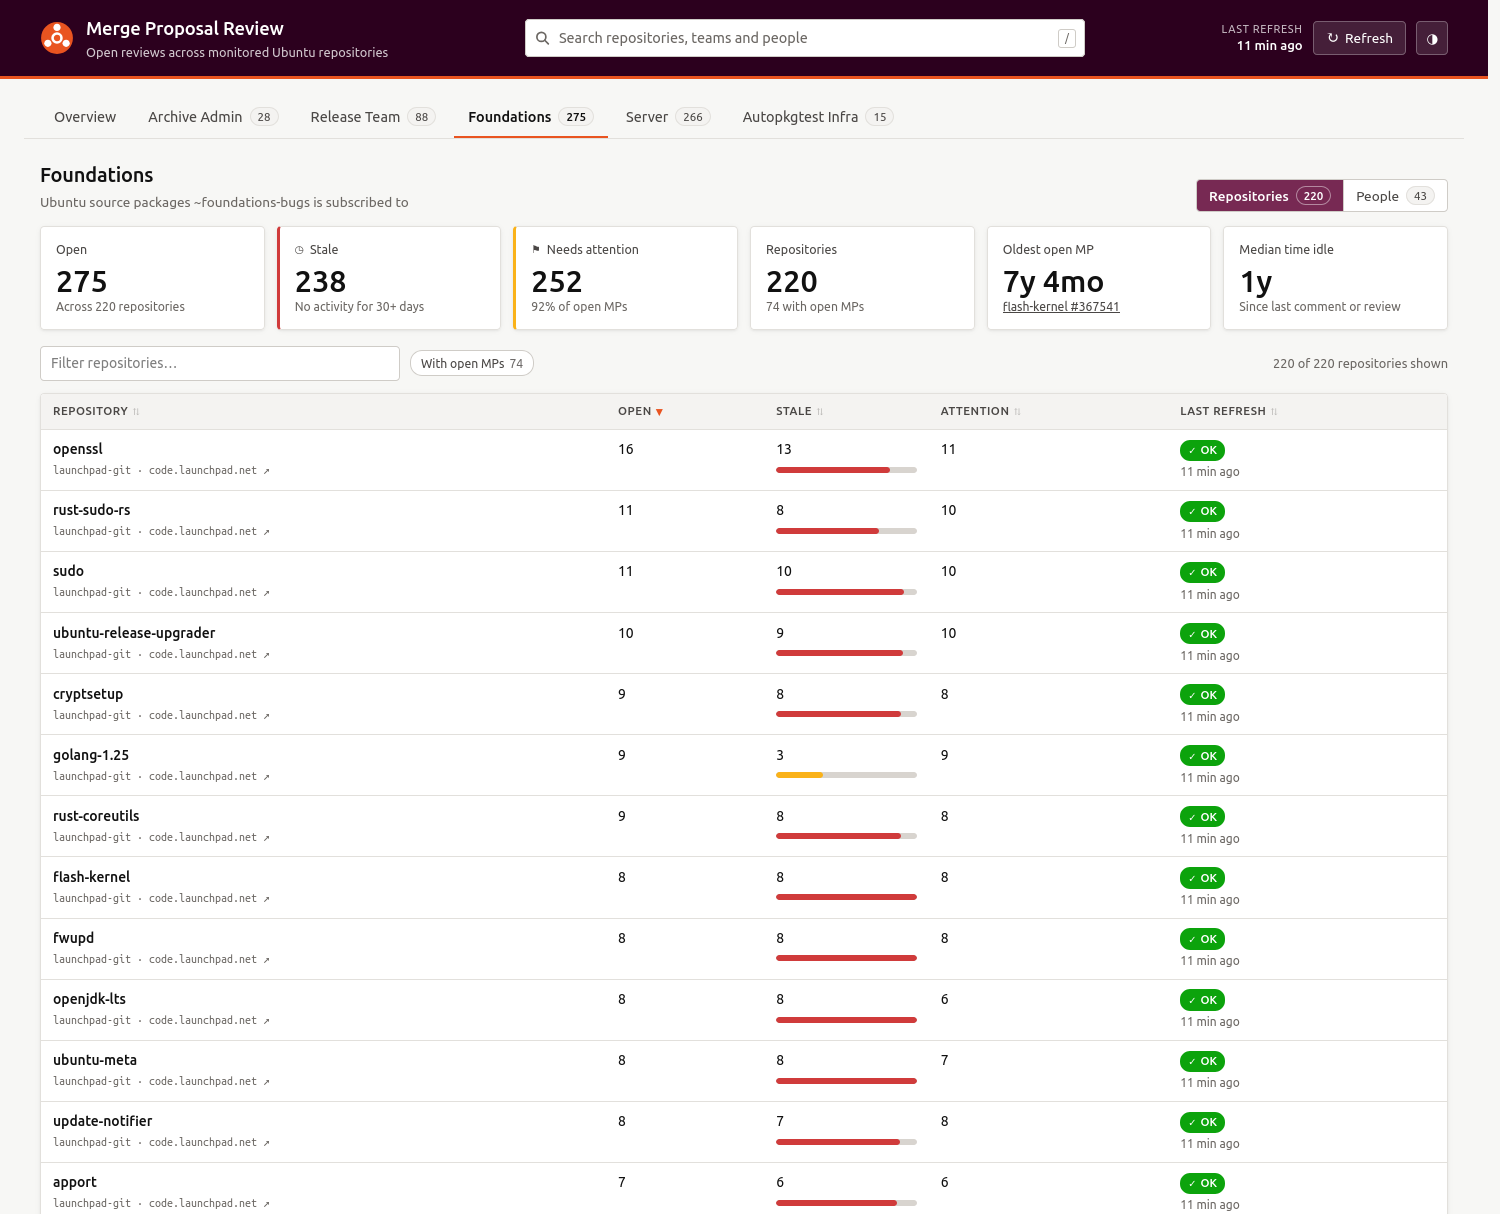
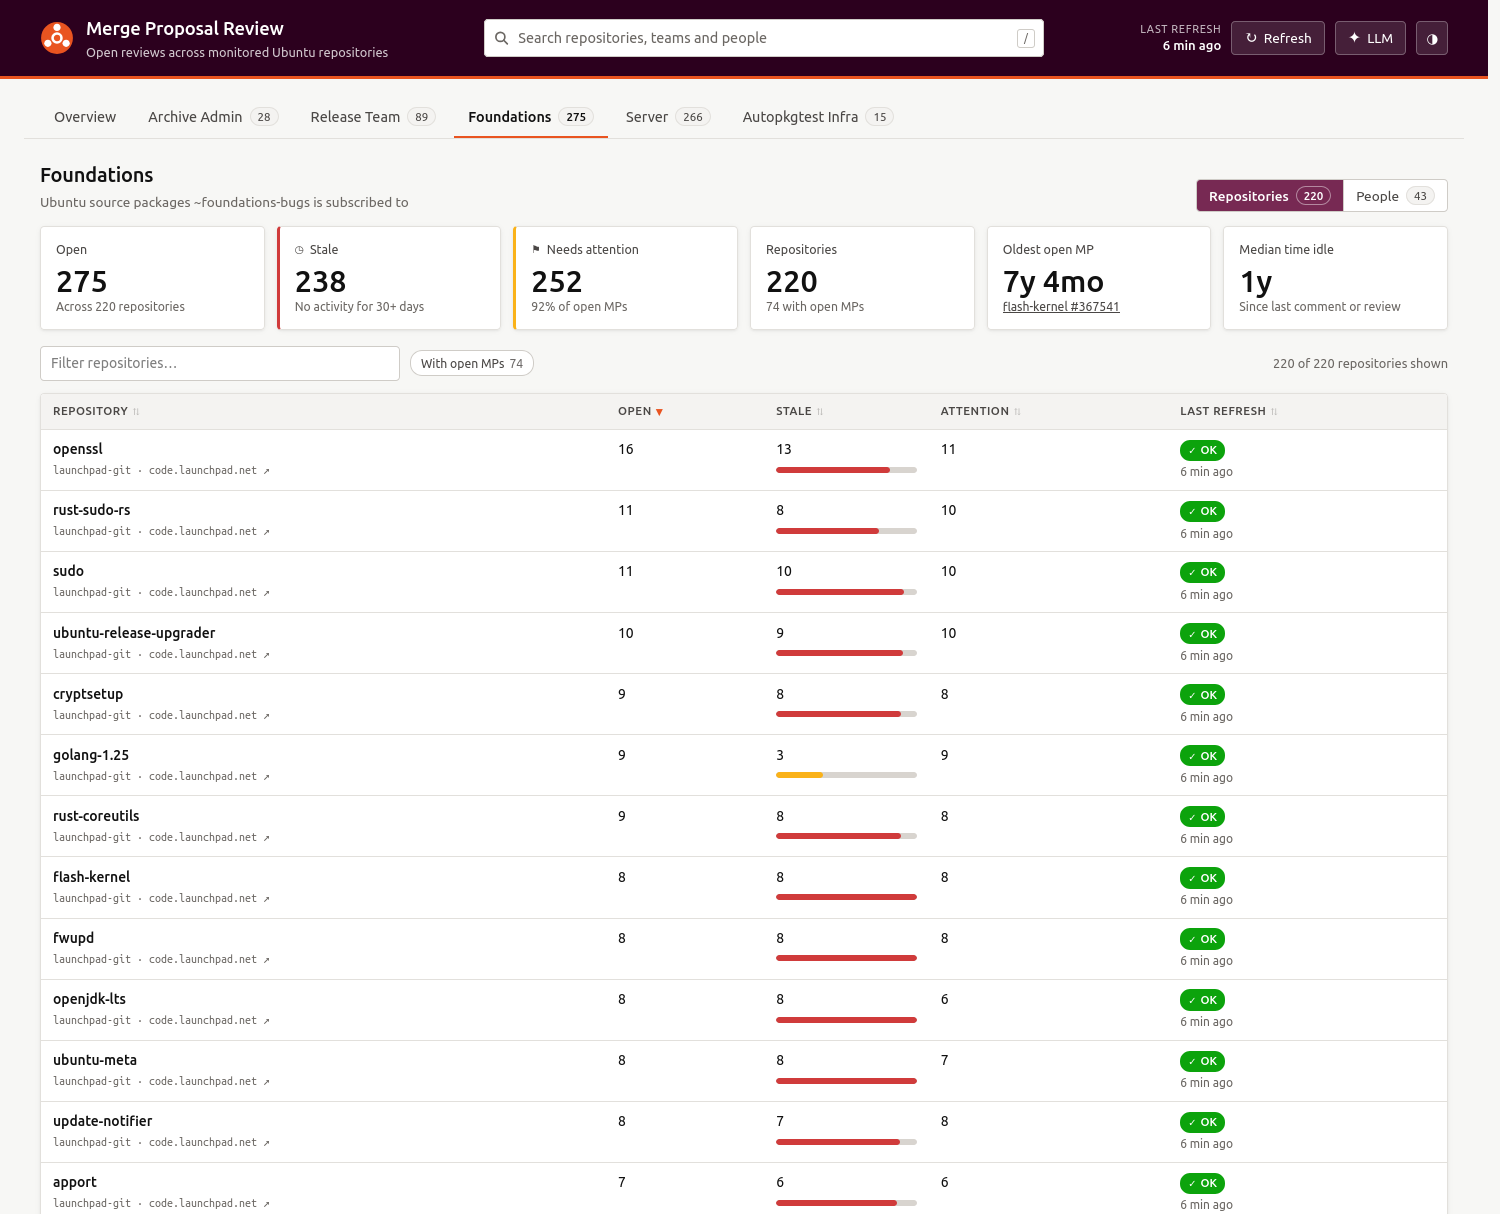
docs: document LLM reviews and their security trade-offs

diff --git a/README.md b/README.md
@@ -12,7 +12,7 @@ who owns it. Hosted on GitHub Pages, refreshed by GitHub Actions.
 
 ![A team's people with their open, stale and attention counts](docs/assets/screenshot-people.png)
 
-![A sortable, filterable table of merge proposals with status, author, age, idle time and flags](docs/assets/screenshot-project.png)
+![A sortable, filterable table of merge proposals with status, author, age, idle time, flags and a Review with LLM agent action on each](docs/assets/screenshot-project.png)
 
 </details>
 
@@ -23,6 +23,11 @@ with every merge proposal they have open on Launchpad. The search box in the
 header (press <kbd>/</kbd>) finds any repository, team or person by any part of
 its name. Every view has its own link (`#team/foundations`,
 `#team/foundations/people/juliank`, `#repo/livecd-rootfs`).
+
+Any merge proposal in a tracked repository can also get **LLM review notes on
+request**: *Review with LLM agent* under its title asks a model what a reviewer
+should watch out for, with your own API key, and keeps the answer in your
+browser. See [LLM review](#llm-review).
 
 ---
 
@@ -39,6 +44,7 @@ GitHub Actions (daily)                 GitHub Pages (static)
     └─ scripts/providers/launchpad.py      └─ docs/assets/app.js
          │                                        ▲
          └── writes ──▶ docs/data/dashboard.json ─┘  (committed to git)
+                        docs/data/review/*.json     (read on request, for LLM review)
 ```
 
 The fetcher normalises each provider's API into one schema. **The UI never sees
@@ -97,6 +103,7 @@ defaults:
   fetch_linked_bugs: true        # set false if refresh runs get slow
   max_workers: 8
   repo_workers: 4                # repositories fetched at once
+  review_diff_max_kb: 128        # diff published per MP for LLM review; 0 = none
 
 teams:                           # the tabs, in this order
   - id: release-team
@@ -262,21 +269,128 @@ Verified against the live API — useful if you extend the provider.
 | Last updated | **No such field exists on an MP.** It is derived from `date_created`, `date_review_requested`, `date_reviewed`, the newest comment and the newest review vote. |
 | Reviewer votes | Available from `{mp}/all_comments` (`vote`, `vote_tag`) — no extra request needed. |
 | Sporadic stalls | An endpoint answering in 0.2s will occasionally hang ~271s. The provider uses a short read timeout and retries rather than waiting it out. |
+| Preview diff | `preview_diff_link` names a preview diff whose id changes whenever either branch moves. It carries `source_revision_id`, `target_revision_id`, line counts and a `diffstat` (absent for the largest diffs). |
+| Diff text | `{preview diff web_link}/+files/preview.diff` redirects to the librarian. The API's `diff_text` returns **HTTP 401** to anonymous callers. No Launchpad host sends CORS headers, the librarian included. |
 
 ---
 
-## Phase 2 — LLM review (not implemented)
+## LLM review
 
-The architecture leaves a seam, and nothing more:
+Under each merge proposal's title in a repository's table (and in a person's,
+for MPs in tracked repositories) there is a small **Review with LLM agent**
+action. It asks a model one question: *what gotchas should a human reviewer
+know about before reviewing this MP?* — likely bugs, risky or surprising
+changes, missed edge cases, compatibility and regression risks, packaging
+mistakes. The answer is a short summary plus at most eight findings, each with
+a severity and a file and line. It is review assistance, not a verdict.
 
-- every `MergeRequest` carries `review: null`, reserved for a review result;
-- `diff_url` is already captured from Launchpad's `preview_diff_link`, so a
-  review harness has the diff without re-crawling;
-- a future `scripts/reviewers/` registry would mirror `scripts/providers/`:
-  one module per model or harness, selected from config, writing into `review`.
+**Nothing is ever reviewed automatically.** A review costs tokens only when
+someone clicks for one; there is no bulk review, and the Overview and team
+lists have no review action at all.
 
-The UI reads a normalised schema, so surfacing a review means rendering one more
-field — not reshaping the data model.
+### Setting it up
+
+Click **LLM** in the header, pick a provider, paste an API key and optionally a
+model, then Save. Supported providers:
+
+| Provider | Key from | Default model |
+|---|---|---|
+| Anthropic (Claude API) | [console.anthropic.com](https://console.anthropic.com/settings/keys) | `claude-opus-5` |
+| OpenRouter | [openrouter.ai](https://openrouter.ai/settings/keys) | `anthropic/claude-opus-5` |
+
+*Load models* lists what the provider offers. A Claude.ai or Claude Code
+subscription cannot be used from a web page; the Anthropic provider needs an
+API key. OpenCode's hosted API (Zen) sends no CORS headers, so a page cannot
+call it; its models are available through OpenRouter.
+
+### What is sent, and what is kept
+
+Launchpad cannot be called from the browser (see above), so the fetcher
+publishes a **review context** for every MP in a tracked repository:
+`docs/data/review/<id>-<hash>.json`, holding the full description and commit
+message, the diffstat, the commits the diff was made from, and the preview diff
+itself **cut at `review_diff_max_kb`** (128 KB, about 35k tokens). Most diffs
+are far smaller — the median open MP is under 100 lines — but git-ubuntu merges
+of a new upstream release can run to 100 MB; those are cut at a file boundary
+and the model is told so. A context is fetched only when an MP's diff changed
+since the last run, so a daily refresh stages a handful. The browser loads an
+MP's context only when a review is requested.
+
+The answer streams back, so the page can show whether the model is still
+thinking or already writing. A review may use up to **64k output tokens,
+thinking included** (less if the model's own limit is lower): the answer itself
+is a few hundred tokens, but models can think at length first, and one that runs
+out before answering has spent those tokens for nothing. A small MP typically
+costs a few thousand tokens in and out; the review shows the exact counts.
+
+The review is cached in the browser (`localStorage`), keyed by the MP's URL,
+with the provider, model, time, token usage and the **revision** reviewed —
+the source branch's commit. The latest review from each model is kept, so
+reviews from different models can be compared. Opening the MP again shows the
+cached review; it never re-runs by itself.
+
+When the MP's source branch moves on, the next data refresh records the new
+revision, and the cached review is marked **for an older revision**, with an
+explicit *Review the updated revision* button. A moved target branch alone
+only gets a note: the proposed commits are the ones reviewed. The dashboard's
+data is refreshed daily, so a push made since the last refresh shows up after
+the next one.
+
+### Security trade-offs
+
+This is a static site with no server, so an API key has to live in the browser
+of the person using it. The design keeps that as contained as it can:
+
+- **Your key goes from your browser straight to the provider**, and nowhere
+  else. It is never committed, never in the data files or cached reviews, never
+  in a URL, and GitHub Actions never sees it (the fetcher does not talk to any
+  LLM). Everyone uses their own key; there is no shared one.
+- **By default the key lasts only as long as the tab** (`sessionStorage`).
+  *Remember API keys on this browser* keeps it in `localStorage` instead: it
+  survives restarts, unencrypted, and **any page on the same origin can read
+  it** — for the live site that is all of `utkarsh2102.org`, not just this
+  dashboard — as can browser extensions and anyone with access to the browser
+  profile. That is why remembering is opt-in. Encrypting it with a passphrase
+  would not help against the realistic threat, script running in the page,
+  which could read the passphrase too.
+- **Injected script is the real threat, so the page is locked down.** A
+  Content-Security-Policy allows scripts only from this site, and lets the page
+  connect only to this site, `api.anthropic.com` and `openrouter.ai`, so even
+  injected script could not send a key anywhere else. The model's answer is
+  untrusted (a merge proposal can contain text aimed at the model) and is only
+  ever rendered as escaped text.
+- **Anthropic's browser header is called `anthropic-dangerous-direct-browser-access`**
+  because a key embedded in a page is exposed to every visitor. Here each person
+  supplies their own key for their own browser, which is the use it permits.
+- **Use a key with a spending limit**: an OpenRouter key with a credit limit,
+  or an Anthropic key in a workspace with a spend limit. A leaked key then costs
+  at most that.
+- MP text is sent to the provider you choose. Everything reviewed is public on
+  Launchpad already, but check the provider's data-retention terms if that
+  matters to you.
+
+### Adding an LLM provider
+
+The browser side mirrors `scripts/providers/`:
+[`docs/assets/reviewers/`](docs/assets/reviewers/) holds one module per service
+behind the contract documented in
+[`reviewers/index.js`](docs/assets/reviewers/index.js) — `listModels()` and
+`review()`, failures reported as a `ReviewError` kind the UI already explains.
+[`docs/assets/review.js`](docs/assets/review.js) (settings, prompt, parsing,
+the cache) never knows which service answered.
+
+1. Write `docs/assets/reviewers/<name>.js` exporting the provider object.
+2. Add it to `REVIEWERS` in `reviewers/index.js`.
+3. Add its API host to `connect-src` in the Content-Security-Policy in
+   [`docs/index.html`](docs/index.html); the browser blocks every other host.
+
+A provider must be callable from a browser (CORS). An agent that fetches more
+context itself — a local `opencode serve --cors <site>`, say — fits the same
+contract: text in, text out.
+
+On the fetcher side, a repository provider supplies review contexts through
+`Provider.review_context(mr, max_bytes)`; one that doesn't simply offers no
+review action.
 
 ---
 
@@ -290,6 +404,9 @@ scripts/providers/launchpad.py  Launchpad git provider
 scripts/providers/github.py     stub
 docs/index.html                 GitHub Pages root
 docs/assets/{styles.css,app.js} UI, no build step
+docs/assets/review.js           LLM review: settings, prompt, parsing, cache
+docs/assets/reviewers/          one module per LLM provider
 docs/data/dashboard.json        generated, committed
+docs/data/review/               per-MP review contexts, generated, committed
 .github/workflows/refresh.yml   cron + manual dispatch
 ```
